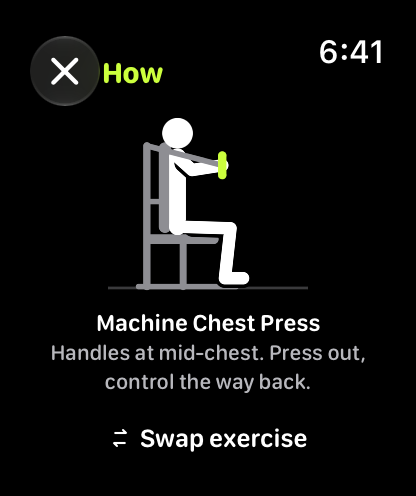
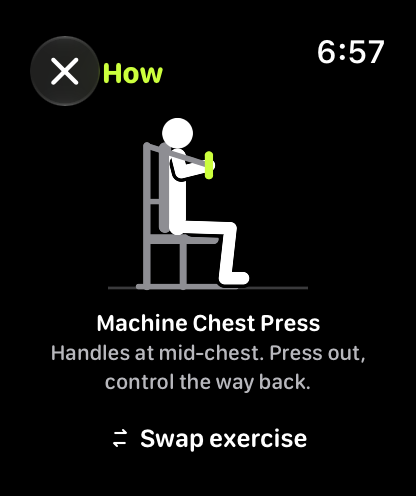
Watch build 9: the Designer's bundle (chest press keyed under both ids), no line under the rest between ramp-ups

Changed region(s): [[0.75, 0.0605, 0.9375, 0.1512], [0.4062, 0.3024, 0.5625, 0.3629]]

diff --git a/Apps/Watch/Model/ExerciseFlow.swift b/Apps/Watch/Model/ExerciseFlow.swift
@@ -113,8 +113,8 @@ final class ExerciseFlow {
         var value: String
         /// The weight went up or down since the set just logged.
         var change: Change?
-        /// "Last time 10 reps", before the first working set; between ramp-ups, "4 reps · not counted". Never why
-        /// the weight moved: SpotMe just does it.
+        /// "Last time 10 reps", before the first working set, and nothing else. Never why the weight moved
+        /// (SpotMe just does it), and not "not counted" between ramp-ups (the ramp-up screen says it).
         var reason: String?
     }
 
@@ -125,7 +125,7 @@ final class ExerciseFlow {
             let value = ramp.bodyweight ? "Bodyweight" : Format.kg(ramp.weight)
             _ = item
             return NextSet(eyebrow: "Next · ramp-up \(ramp.number) of \(ramp.of)", value: value, change: nil,
-                           reason: "\(ramp.reps) reps · not counted")
+                           reason: nil)
         }
         guard let step = current else { return NextSet(eyebrow: "", value: "", change: nil, reason: nil) }
         let item = items[step.item]

diff --git a/Tests/WatchUITests/WorkoutFlowUITests.swift b/Tests/WatchUITests/WorkoutFlowUITests.swift
@@ -98,6 +98,10 @@ final class WorkoutFlowUITests: XCTestCase {
         app.buttons["Done"].tap()
         XCTAssertTrue(app.buttons["Skip rest"].waitForExistence(timeout: 5), "No rest after the ramp-up")
         XCTAssertFalse(app.buttons["Undo last set"].exists, "A ramp-up can't be undone")
+        XCTAssertTrue(app.staticTexts.matching(NSPredicate(format: "label BEGINSWITH[c] 'next · ramp-up'")).firstMatch.exists,
+                      "The rest between ramp-ups doesn't name the next one")
+        XCTAssertFalse(app.staticTexts.matching(NSPredicate(format: "label CONTAINS 'not counted'")).firstMatch.exists,
+                       "The rest between ramp-ups explains itself")
         app.buttons["Skip rest"].tap()
         XCTAssertTrue(app.staticTexts["2 of 2 · not counted"].waitForExistence(timeout: 5))
         app.buttons["Done"].tap()

diff --git a/Packages/RepCoachCore/Tests/RepCoachCoreTests/FigureTests.swift b/Packages/RepCoachCore/Tests/RepCoachCoreTests/FigureTests.swift
@@ -67,7 +67,9 @@ final class FigureTests: XCTestCase {
     func testTheBundleHasFiftyFiguresAndEveryExercisePointsAtOne() throws {
         let bundle = try library().bundle
         XCTAssertEqual(bundle.figures.count, 50)
-        XCTAssertEqual(bundle.exercises.count, 52)
+        // 52 plan exercises, and the chest press twice: under machine-chest-press and its old id.
+        XCTAssertEqual(bundle.exercises.count, 53)
+        XCTAssertNotNil(bundle.exercises["machine-chest-press"])
         for (exercise, entry) in bundle.exercises {
             XCTAssertNotNil(bundle.figures[entry.figure], "\(exercise) has no figure \(entry.figure)")
             XCTAssertLessThanOrEqual(entry.cue.count, 72, "\(exercise)'s cue is too long")

diff --git a/docs/SPEC.md b/docs/SPEC.md
@@ -103,11 +103,11 @@ The look: one accent. Volt is what to tap and the value the Crown moves; ice mea
 
 **Ramp-up screen** (before the first working set; see Progression rules)
 - Opening an exercise that has ramp-ups, with no working set logged today and its ramp-ups neither done nor skipped today, shows **Ramp-up** first: the name, "1 of 2 · not counted", one tile that is not editable ("10 kg × 8", with "WORKING WEIGHT 22.5 KG" under it; bodyweight reads "BW × 5" and "WORKING WEIGHT +15 KG"), and Done. Skip drops all ramp-ups left for the exercise today and opens set 1 with no rest.
-- Done saves the set marked ramp-up (weight and reps as shown) and starts a 60 s rest (the usual rest screen, +30 and skip, no Undo). Between ramp-ups the rest says "NEXT · RAMP-UP 2 OF 2", the weight and "4 reps · not counted"; after the last it says "NEXT · SET 1 OF 4", the working weight and "Last time 10 reps". A superset pair does its ramp-ups back to back, then one rest.
+- Done saves the set marked ramp-up (weight and reps as shown) and starts a 60 s rest (the usual rest screen, +30 and skip, no Undo). Between ramp-ups the rest says "NEXT · RAMP-UP 2 OF 2" and the weight; after the last it says "NEXT · SET 1 OF 4", the working weight and "Last time 10 reps". A superset pair does its ramp-ups back to back, then one rest.
 
 **Rest screen**
 - Countdown from `restSec` (supersets: rest only after the second exercise). The timer line round the edge of the screen and the time in the middle are drawn from one clock, so they always agree: 15 times a second on screen, every second in Always On (dimmed).
-- No title and no reason. Shows "NEXT · SET 3 OF 4" and the next set's target (an arrow when the weight changed: ember down, volt up). The one line under it is only "Last time 10 reps" on the rest before the first working set, and "4 reps · not counted" between ramp-ups.
+- No title and no reason. Shows "NEXT · SET 3 OF 4" and the next set's target (an arrow when the weight changed: ember down, volt up). The one line under it is only "Last time 10 reps" on the rest before the first working set. Between ramp-ups the rest shows the countdown, the heart rate, "NEXT · RAMP-UP 2 OF 2" and the weight, nothing under it (the ramp-up screen already says "not counted").
 - Haptics at 10 s left and at 0. Round buttons: +30 s in one corner, skip in the other; Undo between them.
 - The heart rate from the running workout session is shown under the time.
 

diff --git a/docs/STATUS.md b/docs/STATUS.md
@@ -12,7 +12,6 @@ Build 9 notes for the Designer, where the build differs from the handoff:
 - With the Swap button the figure is always 100 pt (200 px), not only for a three-line cue: with a two-line cue and 125 pt the button ran off the screen. The shipped cue for Machine Chest Press (`figures.json`) is "Handles at mid-chest. Press out, control the way back."
 - `figures.json`'s `exercises` still keys the figure under `machine-chest-press-or-flat-bench`; the code maps the old id, so nothing breaks, but the next drop should key it `machine-chest-press`.
 - The complication shows the session's state (Start workout, "Up next" with the next item, "Done") through an app group, `group.com.yeshu.RepCoach`, on the watch app and the complication. No board draws it; `W62` is the first sketch. Tapping it follows `OpenFromOutside` (decided in Core, with tests).
-- Between ramp-ups the rest still says "4 reps · not counted" (information, not a reason).
 - While the workout is paused, a running rest shows "Paused" in amber in place of the heart rate.
 - Swap is offered only for an exercise nothing has been logged on (ramp-ups don't count).
 - The session also keeps time, energy and average heart rate (for the Finished card and the phone's History), and every Health workout saved for it (for Discard).
